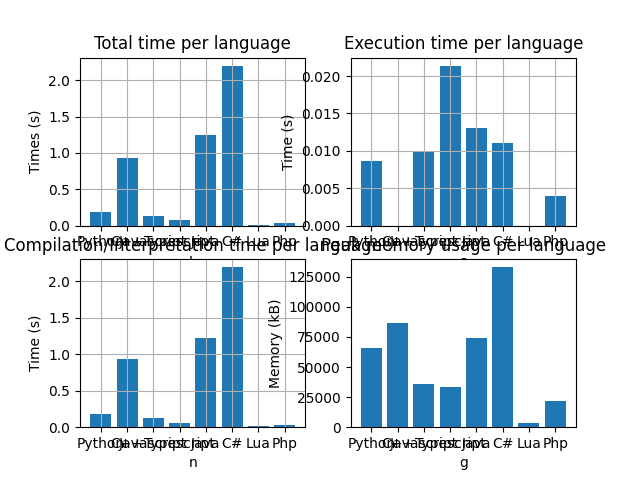
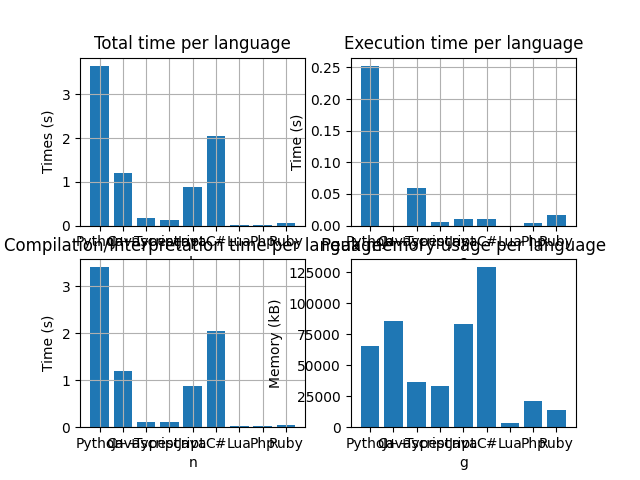
Add ruby

Changed region(s): [[0.0312, 0.125, 0.9062, 0.9375], [0.0625, 0.875, 0.125, 0.9062]]

diff --git a/src/ruby/fast/main.rb b/src/ruby/fast/main.rb
@@ -1,0 +1,25 @@
+start = Time.now
+rounds = File.read("../../rounds.txt")
+rounds = rounds.to_i
+
+total = []
+for l in 0..rounds do total[l] = true end
+
+for i in 2..Math.sqrt(rounds) do
+    if total[i] then
+        for j in (i**2..rounds).step(i) do
+            total[j] = false
+        end
+    end
+end
+
+primes = 0
+for k in 2..rounds do
+    if total[k] then
+        primes += 1
+    end
+end
+composites = rounds - primes
+
+the_end = Time.now - start
+print RUBY_VERSION + " ", the_end

diff --git a/src/ruby/slow/main.rb b/src/ruby/slow/main.rb
@@ -1,0 +1,24 @@
+start = Time.now
+rounds = File.read("../../rounds.txt")
+
+
+primes = 0
+composites = 0 
+for num in 0..rounds.to_i do
+    ctr = 0
+
+    for i in 2..num / 2 do
+        if num % i == 0 then
+            ctr += 1
+            composites += 1
+            break
+        end
+        
+    end
+    if ctr == 0 and num != 1 then
+        primes += 1
+    end
+end
+
+the_end = Time.now - start
+print RUBY_VERSION + " ", the_end

diff --git a/comparison.py b/comparison.py
@@ -29,6 +29,7 @@ SLOW_LANGUAGES = {
     "C#": "dotnet run",
     "Lua": "lua main.lua",
     "PHP": "php main.php",
+    "Ruby": "ruby main.rb",
 }
 
 
@@ -41,6 +42,7 @@ FAST_LANGUAGES = {
     "C#": "dotnet run",
     "Lua": "lua main.lua",
     "PHP": "php main.php",
+    "Ruby": "ruby main.rb",
 }
 
 

diff --git a/README.md b/README.md
@@ -102,6 +102,7 @@ You are also more than welcome to contribute and help me.
 - [C#](https://docs.microsoft.com/en-us/dotnet/csharp/) - compiled, VM
 - [Lua](https://www.lua.org) - interpreted, JIT
 - [PHP](https://www.php.net) - interpreted, JIT
+- [Ruby](www.ruby-lang.org) - interpreted
 <!---
 
 - [Javascript](https://www.ecma-international.org/publications/standards/Ecma-402.htm) using [Node.js](https://nodejs.org/) - interpreted, JIT
@@ -175,6 +176,7 @@ Because I think this is a more realistic scenario to compare speeds.
 - [X] Add C#
 - [X] Add Lua
 - [X] Add Php
+- [X] Add Ruby
 - [ ] Add other methods of comparing E.g: [Leibniz formula for π](https://en.wikipedia.org/wiki/Leibniz_formula_for_%CF%80) to compare the floating point operations
 - [ ] Add full Docker Support
 - [ ] Add Terminal graphs
@@ -193,7 +195,6 @@ Because I think this is a more realistic scenario to compare speeds.
 - [ ] Add R plots instead of MatPlotLib
 - [ ] Add Julia
 - [ ] Add Elixir
-- [ ] Add Ruby
 - [ ] Add Raku (Perl6)
 - [ ] Add Nim
 - [ ] And many others...
